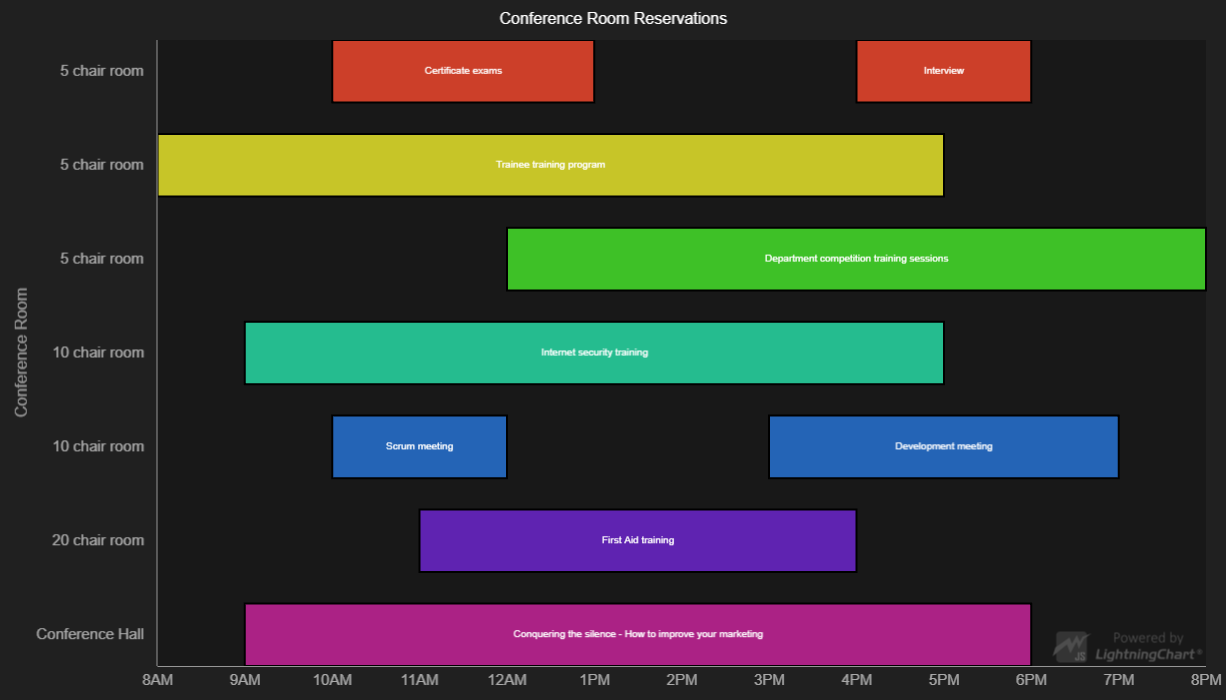
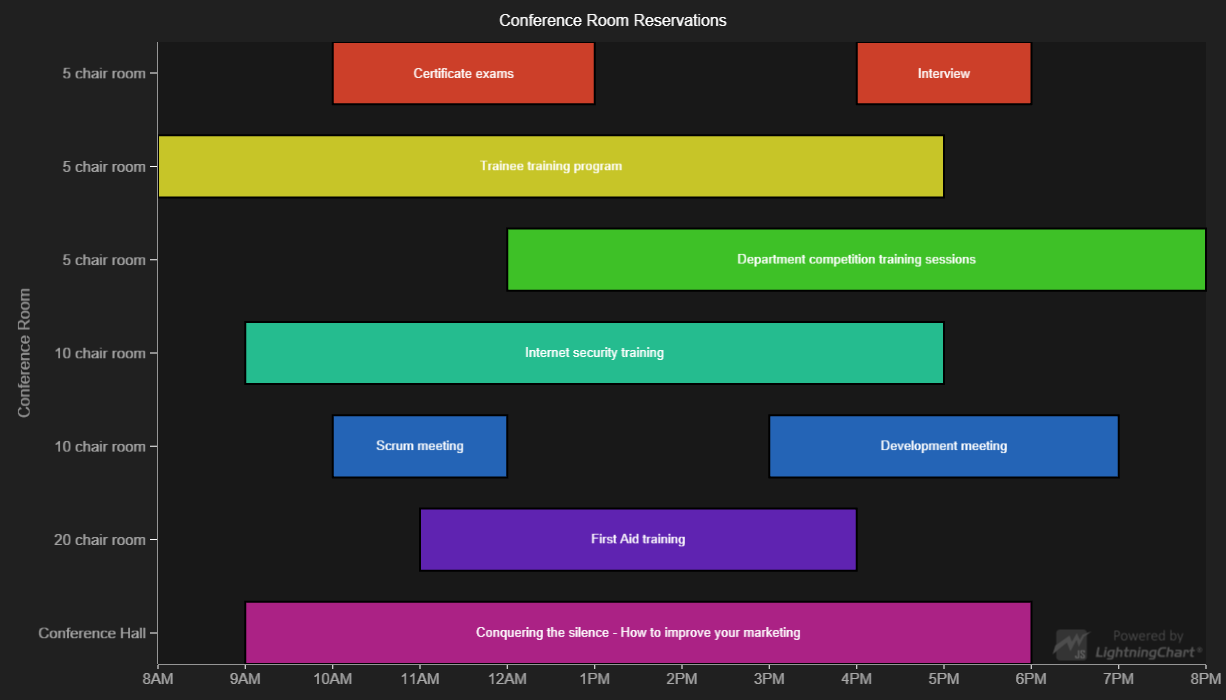
LCJS 3.0.0

diff --git a/src/index.js b/src/index.js
@@ -66,16 +66,12 @@ let spanChart
         let y = 0
         for (let i = 8; i <= 20; i++) {
             const label = i > 12 ? i - 12 + 'PM' : i + 'AM'
-            axisX.addCustomTick()
+            axisX.addCustomTick(UIElementBuilders.AxisTick)
                 .setValue(i)
                 .setTickLength(4)
                 .setGridStrokeLength(0)
                 .setTextFormatter(_ => label)
                 .setMarker(marker => marker
-                    .setBackground(background => background
-                        .setFillStyle(emptyFill)
-                        .setStrokeStyle(emptyLine)
-                    )
                     .setTextFillStyle(new SolidFill({ color: ColorRGBA(170, 170, 170) }))
                 )
         }
@@ -101,10 +97,10 @@ let spanChart
                     width: max - min,
                     height: figureHeight
                 }
-                //Add element for span labels
+                // Add element for span labels
                 const spanText = chart.addUIElement(
                     UILayoutBuilders.Row,
-                    { x: axisX.scale, y: axisY.scale }
+                    { x: axisX, y: axisY }
                 )
                     .setOrigin(UIOrigins.Center)
                     .setDraggingMode(UIDraggingModes.notDraggable)
@@ -120,7 +116,7 @@ let spanChart
                     UIElementBuilders.TextBox
                         .addStyler(
                             textBox =>
-                                textBox.setFont(fontSettings => fontSettings.setSize(10)).setText(titles[index])
+                                textBox.setTextFont(fontSettings => fontSettings.setSize(13)).setText(titles[index])
                                     .setTextFillStyle(new SolidFill().setColor(ColorRGBA(255, 255, 255)))
 
                         )
@@ -136,16 +132,11 @@ let spanChart
             }
 
             // Add custom tick for category
-            axisY.addCustomTick()
+            axisY.addCustomTick(UIElementBuilders.AxisTick)
                 .setValue(y - figureHeight * 0.5)
                 .setGridStrokeLength(0)
                 .setTextFormatter(_ => category)
                 .setMarker(marker => marker
-                    .setPadding(4)
-                    .setBackground(background => background
-                        .setFillStyle(emptyFill)
-                        .setStrokeStyle(emptyLine)
-                    )
                     .setTextFillStyle(new SolidFill({ color: ColorRGBA(170, 170, 170) }))
                 )
             y -= figureHeight * 1.5

diff --git a/README.md b/README.md
@@ -79,14 +79,14 @@ Direct developer email support can be purchased through a [Support Plan][4] or b
 © Arction Ltd 2009-2020. All rights reserved.
 
 
-[XY cartesian chart]: https://www.arction.com/lightningchart-js-api-documentation/v2.2.0/classes/chartxy.html
-[Rectangle series]: https://www.arction.com/lightningchart-js-api-documentation/v2.2.0/classes/rectangleseries.html
-[Axis]: https://www.arction.com/lightningchart-js-api-documentation/v2.2.0/classes/axis.html
-[Empty TickStyle]: https://www.arction.com/lightningchart-js-api-documentation/v2.2.0/globals.html#emptytick
-[Solid FillStyle]: https://www.arction.com/lightningchart-js-api-documentation/v2.2.0/classes/solidfill.html
-[Empty FillStyle]: https://www.arction.com/lightningchart-js-api-documentation/v2.2.0/globals.html#emptyfill
-[Solid LineStyle]: https://www.arction.com/lightningchart-js-api-documentation/v2.2.0/classes/solidline.html
-[Empty LineStyle]: https://www.arction.com/lightningchart-js-api-documentation/v2.2.0/globals.html#emptyline
-[RGBA color factory]: https://www.arction.com/lightningchart-js-api-documentation/v2.2.0/globals.html#colorrgba
-[Color palettes]: https://www.arction.com/lightningchart-js-api-documentation/v2.2.0/globals.html#colorpalettes
+[XY cartesian chart]: https://www.arction.com/lightningchart-js-api-documentation/v3.0.0/classes/chartxy.html
+[Rectangle series]: https://www.arction.com/lightningchart-js-api-documentation/v3.0.0/classes/rectangleseries.html
+[Axis]: https://www.arction.com/lightningchart-js-api-documentation/v3.0.0/classes/axis.html
+[Empty TickStyle]: https://www.arction.com/lightningchart-js-api-documentation/v3.0.0/globals.html#emptytick
+[Solid FillStyle]: https://www.arction.com/lightningchart-js-api-documentation/v3.0.0/classes/solidfill.html
+[Empty FillStyle]: https://www.arction.com/lightningchart-js-api-documentation/v3.0.0/globals.html#emptyfill
+[Solid LineStyle]: https://www.arction.com/lightningchart-js-api-documentation/v3.0.0/classes/solidline.html
+[Empty LineStyle]: https://www.arction.com/lightningchart-js-api-documentation/v3.0.0/globals.html#emptyline
+[RGBA color factory]: https://www.arction.com/lightningchart-js-api-documentation/v3.0.0/globals.html#colorrgba
+[Color palettes]: https://www.arction.com/lightningchart-js-api-documentation/v3.0.0/globals.html#colorpalettes
 
